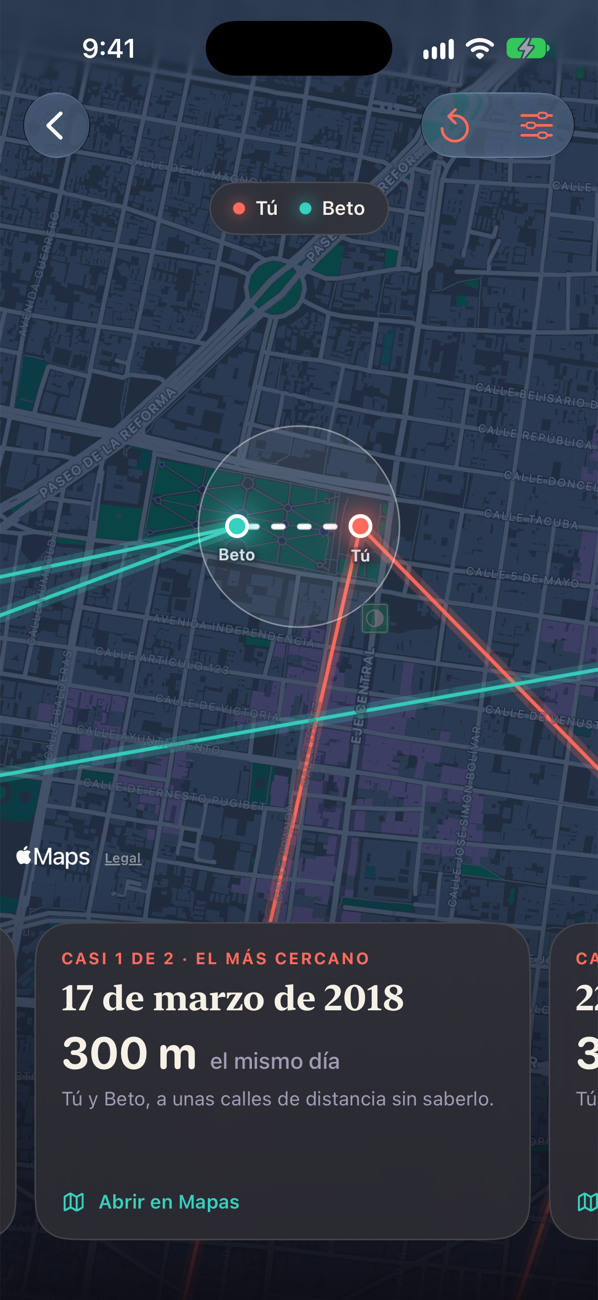
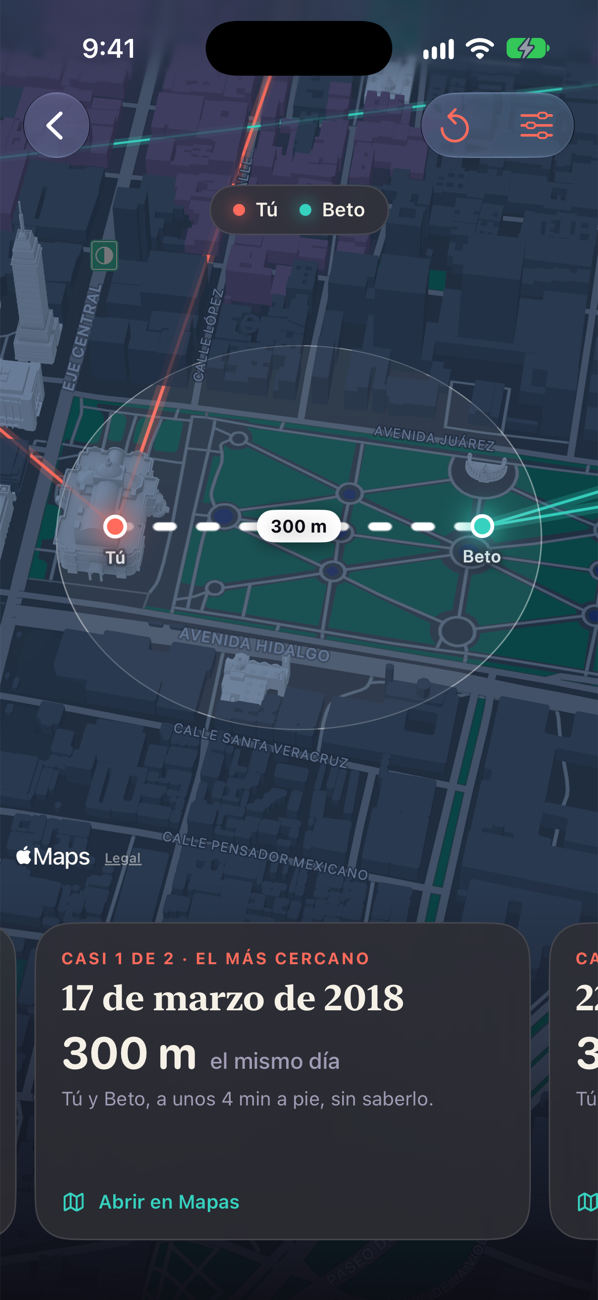
feat(ui): bring the near miss down to street level
The camera tilts, drops to a few hundred meters and turns so the two
stand side by side, with the distance on the line between them.

diff --git a/App/ResultsView.swift b/App/ResultsView.swift
@@ -24,7 +24,7 @@ struct ResultsView: View {
         Map(position: $camera, interactionModes: [.pan, .zoom]) {
             mapContent
         }
-        .mapStyle(.standard(elevation: .flat, emphasis: .muted, pointsOfInterest: .excludingAll))
+        .mapStyle(.standard(elevation: .realistic, emphasis: .muted, pointsOfInterest: .excludingAll))
         .mapControlVisibility(.hidden)
         .safeAreaInset(edge: .bottom, spacing: 0) { carousel }
         .overlay(alignment: .top) { topPill.padding(.top, 8) }
@@ -106,16 +106,28 @@ struct ResultsView: View {
 
     @MapContentBuilder
     private func missMarker(_ miss: NearMiss) -> some MapContent {
-        if let a = MapScene.coordinate(of: miss.mine.cell), let b = MapScene.coordinate(of: miss.theirs.cell) {
+        if let (a, b) = MapScene.endpoints(of: miss) {
             let isSelected = selection == miss.id
             let middle = MapScene.midpoint(a, b)
 
             if isSelected {
-                MapCircle(center: middle, radius: max(miss.meters / 2 + 90, 160))
+                MapCircle(center: middle, radius: max(miss.meters / 2 + 45, 75))
                     .foregroundStyle(.white.opacity(0.07))
                     .stroke(.white.opacity(0.45), lineWidth: 1)
                 MapPolyline(coordinates: [a, b])
-                    .stroke(.white, style: StrokeStyle(lineWidth: 2, lineCap: .round, dash: [3, 6]))
+                    .stroke(.white, style: StrokeStyle(lineWidth: 2.5, lineCap: .round, dash: [3, 7]))
+                if miss.meters >= 150 {
+                    Annotation("", coordinate: middle, anchor: .center) {
+                        Text(Phrase.distance(miss.meters))
+                            .font(.caption.weight(.bold))
+                            .monospacedDigit()
+                            .foregroundStyle(Theme.bg)
+                            .padding(.horizontal, 9)
+                            .frame(height: 22)
+                            .background(.white, in: Capsule())
+                            .shadow(color: .black.opacity(0.4), radius: 6, y: 2)
+                    }
+                }
                 Annotation("Tú", coordinate: a, anchor: .center) {
                     EndpointDot(color: Theme.coral)
                 }
@@ -279,16 +291,16 @@ struct ResultsView: View {
 
     private func focus(animated: Bool) {
         guard let scene else { return }
-        let region: MKCoordinateRegion
-        if let miss = cards.first(where: { $0.id == selection }), let tight = MapScene.region(for: miss) {
-            region = tight
+        let target: MapCameraPosition
+        if let miss = cards.first(where: { $0.id == selection }), let street = MapScene.camera(for: miss) {
+            target = street
         } else {
-            region = scene.region
+            target = .region(scene.region)
         }
         if animated, !reduceMotion {
-            withAnimation(.easeInOut(duration: 1.4)) { camera = .region(region) }
+            withAnimation(.easeInOut(duration: 1.8)) { camera = target }
         } else {
-            camera = .region(region)
+            camera = target
         }
     }
 }
@@ -433,18 +445,23 @@ struct MissCard: View {
 
     private var detail: String {
         if miss.dayGap == 0 {
-            return "Tú y \(partner), a unas calles de distancia sin saberlo."
+            if miss.meters < 150 {
+                return "Tú y \(partner) en la misma cuadra, sin saberlo."
+            }
+            if miss.meters <= 1500 {
+                let minutes = max(1, Int((miss.meters / 80).rounded()))
+                return "Tú y \(partner), a unos \(minutes) min a pie, sin saberlo."
+            }
+            return "Tú y \(partner) en la misma zona, sin saberlo."
         }
         return "Tú, el \(Phrase.shortDate(miss.mine.day)); \(partner), el \(Phrase.shortDate(miss.theirs.day))."
     }
 
     /// Opens Apple Maps at the midpoint. It leaves the app only when tapped.
     private var mapsURL: URL? {
-        guard let a = MapScene.coordinate(of: miss.mine.cell),
-              let b = MapScene.coordinate(of: miss.theirs.cell)
-        else { return nil }
+        guard let (a, b) = MapScene.endpoints(of: miss) else { return nil }
         let middle = MapScene.midpoint(a, b)
-        return URL(string: String(format: "https://maps.apple.com/?ll=%.4f,%.4f&z=15", middle.latitude, middle.longitude))
+        return URL(string: String(format: "https://maps.apple.com/?ll=%.4f,%.4f&z=17", middle.latitude, middle.longitude))
     }
 }
 

diff --git a/App/MapScene.swift b/App/MapScene.swift
@@ -1,5 +1,6 @@
 import MapKit
 import NearMissCore
+import SwiftUI
 
 /// One sighting placed on the map.
 struct TrailPoint: Identifiable {
@@ -65,16 +66,50 @@ struct MapScene {
         )
     }
 
-    /// The frame for one near miss: tight when they were close, wide when they were not.
-    static func region(for miss: NearMiss) -> MKCoordinateRegion? {
-        guard let a = coordinate(of: miss.mine.cell), let b = coordinate(of: miss.theirs.cell) else {
+    /// Where each of the two stood. A cell is about 150 m wide, so two people in the
+    /// same cell land on the same point; they are drawn a few steps apart instead,
+    /// which is as true as the cell allows.
+    static func endpoints(of miss: NearMiss) -> (mine: CLLocationCoordinate2D, theirs: CLLocationCoordinate2D)? {
+        guard var a = coordinate(of: miss.mine.cell), var b = coordinate(of: miss.theirs.cell) else {
             return nil
         }
-        let span = max(miss.meters * 3.2, 1400)
-        if span > 1_500_000 {
-            return region(fitting: [a, b], padding: 1.8)
+        if miss.meters < 30 {
+            let metersPerDegree = 111_320 * max(0.2, cos(a.latitude * .pi / 180))
+            let shift = 24 / metersPerDegree
+            a.longitude -= shift
+            b.longitude += shift
         }
-        return MKCoordinateRegion(center: midpoint(a, b), latitudinalMeters: span, longitudinalMeters: span)
+        return (a, b)
+    }
+
+    /// The camera for one near miss. When they were close it comes down to the street,
+    /// tilted, and turned so the two stand side by side. When they were far it frames both.
+    static func camera(for miss: NearMiss) -> MapCameraPosition? {
+        guard let (a, b) = endpoints(of: miss) else { return nil }
+        if miss.meters > 4000 {
+            let span = miss.meters * 3.2
+            if span > 1_500_000 {
+                return .region(region(fitting: [a, b], padding: 1.8))
+            }
+            return .region(MKCoordinateRegion(center: midpoint(a, b), latitudinalMeters: span, longitudinalMeters: span))
+        }
+        let close = miss.meters <= 1200
+        return .camera(MapCamera(
+            centerCoordinate: midpoint(a, b),
+            distance: max(miss.meters * 6.2, 620),
+            heading: bearing(from: a, to: b) - 90,
+            pitch: close ? 48 : 30
+        ))
+    }
+
+    /// Compass direction from one point to another, in degrees.
+    static func bearing(from a: CLLocationCoordinate2D, to b: CLLocationCoordinate2D) -> Double {
+        let lat1 = a.latitude * .pi / 180, lat2 = b.latitude * .pi / 180
+        let dLon = (b.longitude - a.longitude) * .pi / 180
+        let y = sin(dLon) * cos(lat2)
+        let x = cos(lat1) * sin(lat2) - sin(lat1) * cos(lat2) * cos(dLon)
+        let degrees = atan2(y, x) * 180 / .pi
+        return (degrees + 360).truncatingRemainder(dividingBy: 360)
     }
 
     private static func points(_ trail: Trail, beforeDay: Int?) -> [TrailPoint] {
